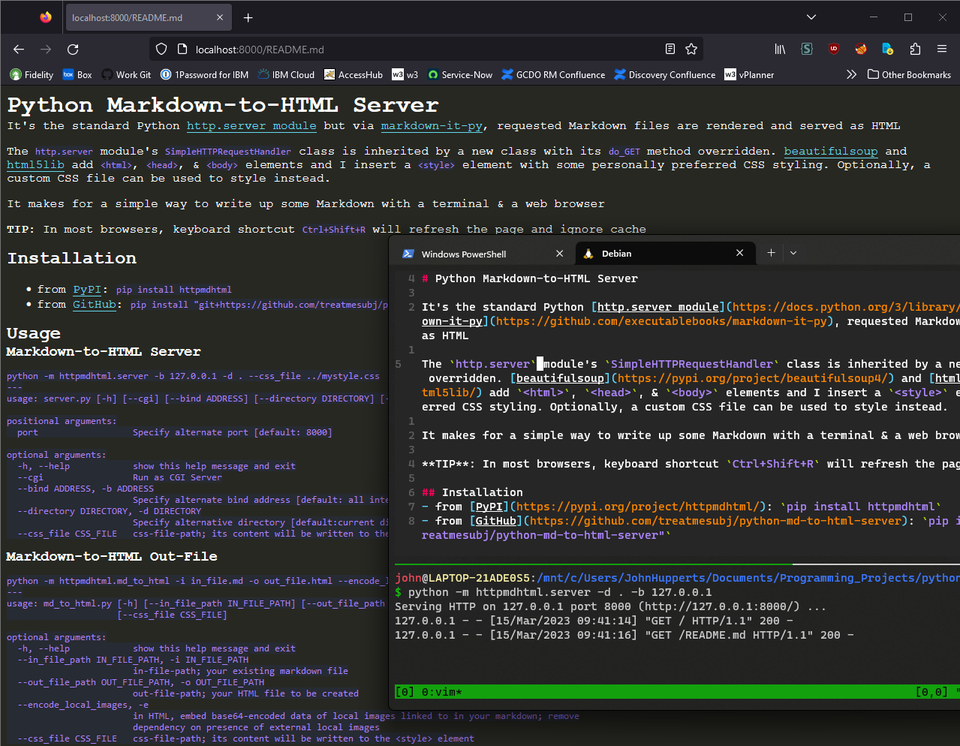
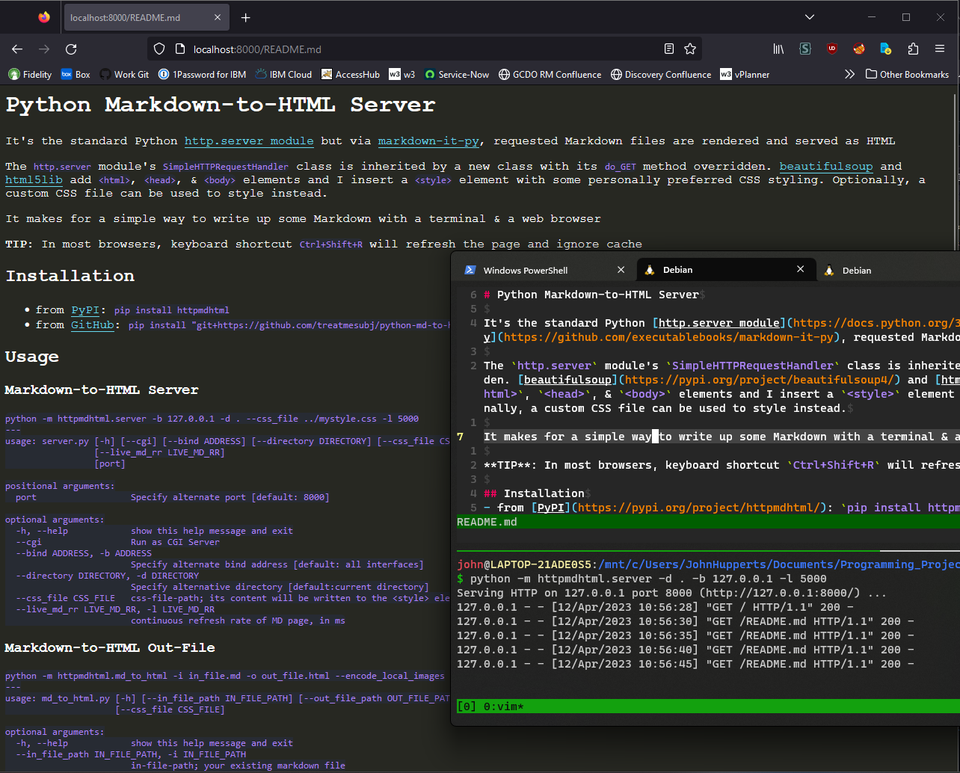
scrot and cache

diff --git a/httpmdhtml/md_to_html.py b/httpmdhtml/md_to_html.py
@@ -21,6 +21,9 @@ def markdown_to_html(MarkdownIt_obj, in_file_path, out_file_path="tmp.html",
     soup = BeautifulSoup(html_text, 'html5lib') # adds <html>, <head>,  <body>
     soup.select_one('head').append(soup.new_tag("meta"))
     soup.select_one('meta').attrs['charset'] = "UTF-8"
+    # if lots of images, caching is preferable more often than not
+    # soup.select_one('meta').attrs['http-equiv'] = "Cache-control"
+    # soup.select_one('meta').attrs['content'] = "no-cache"
     soup.select_one('head').append(soup.new_tag("style"))
     if css_file:
         with open(css_file, 'r') as f:

diff --git a/httpmdhtml/server.py b/httpmdhtml/server.py
@@ -76,7 +76,7 @@ if __name__ == "__main__":
     parser.add_argument('--css_file', default=None,
                          help='css-file-path; its content will be written to the <style> element')
     parser.add_argument('--live_md_rr', '-l', action='store', type=int, default=None,
-                         help='continuous refresh rate of MD page, in ms')
+                         help='Continuous refresh rate of MD page, in ms. Respects cache')
     parser.add_argument('port', action='store',
                         default=8000, type=int,
                         nargs='?',

diff --git a/README.md b/README.md
@@ -33,7 +33,7 @@ optional arguments:
                         Specify alternative directory [default:current directory]
   --css_file CSS_FILE   css-file-path; its content will be written to the <style> element
   --live_md_rr LIVE_MD_RR, -l LIVE_MD_RR
-                        continuous refresh rate of MD page, in ms
+                        Continuous refresh rate of MD page, in ms. Respects cache
 ```
 
 ### Markdown-to-HTML Out-File
